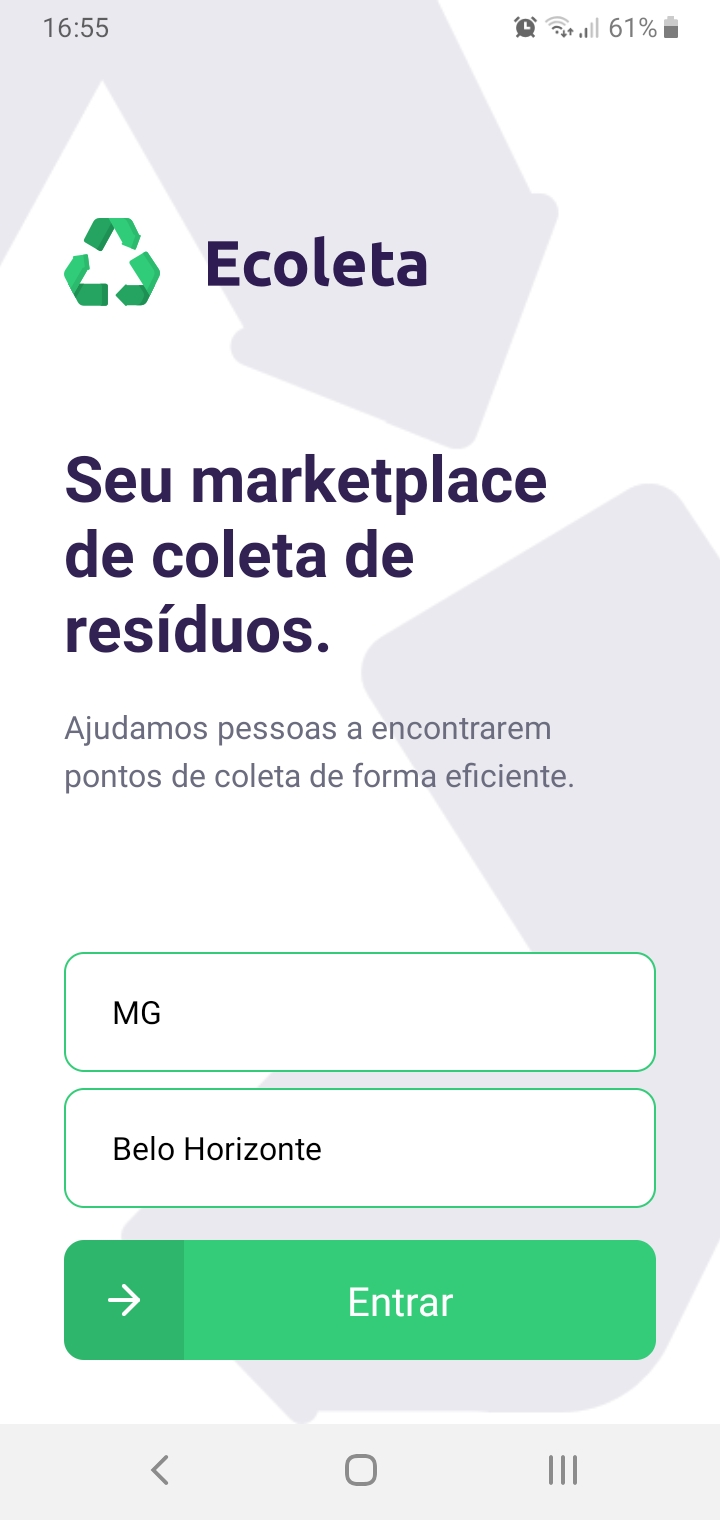
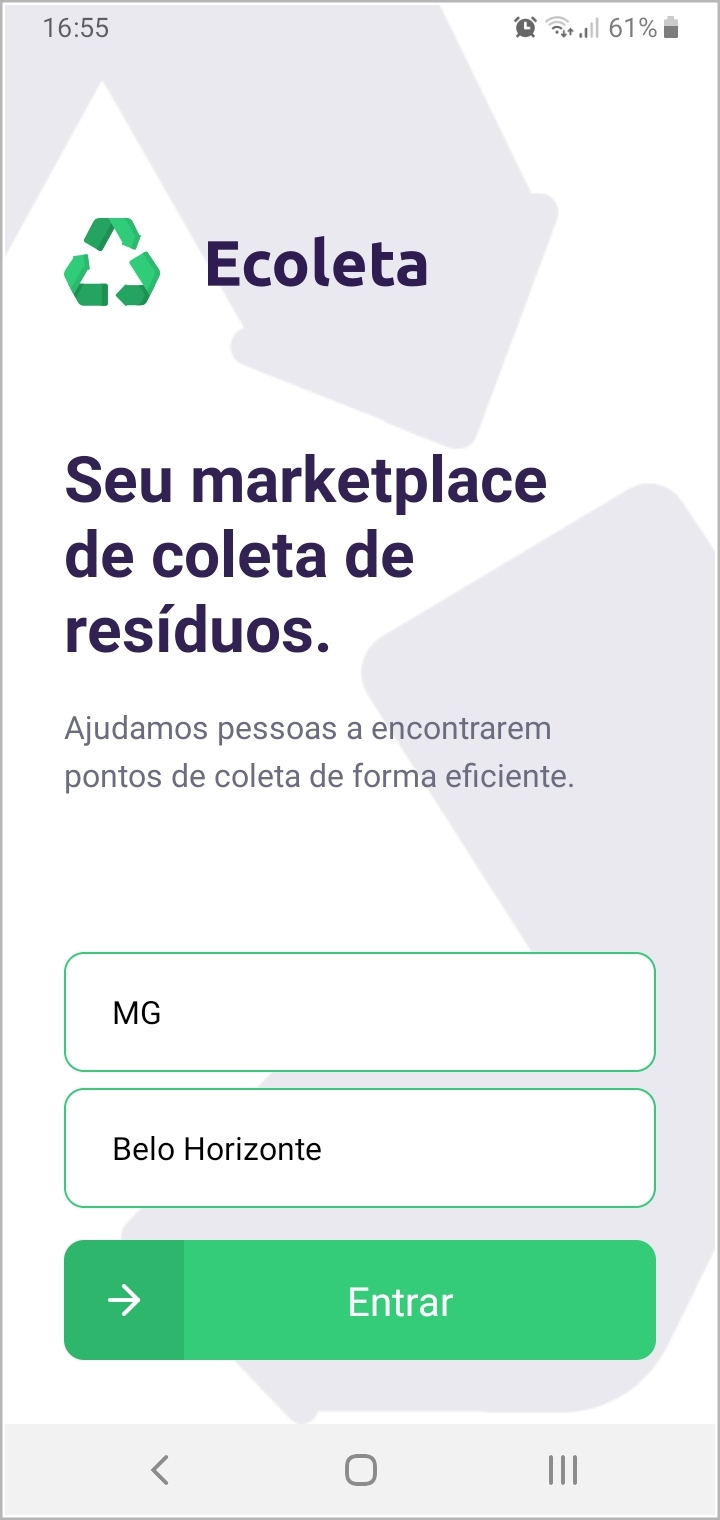
Bordas nas imagens

Changed region(s): [[0.0, 0.0, 1.0, 1.0], [0.0, 0.1546, 0.0306, 0.9586], [0.0, 0.0, 0.0306, 0.0309]]

diff --git a/README.md b/README.md
@@ -15,13 +15,13 @@ O <strong>Ecoleta</strong> é uma plataforma criada para gerenciar o processo de
 </div>
 
 <div align="center">
-  <img src="mobile/mobile_preview_1.jpg" alt="Ecoleta mobile" width="500px">
+  <img src="mobile/mobile_preview_1.jpg" alt="Ecoleta mobile" width="350px">
 </div>
 <div align="center">
-  <img src="mobile/mobile_preview_2.jpg" alt="Ecoleta mobile" width="500px">
+  <img src="mobile/mobile_preview_2.jpg" alt="Ecoleta mobile" width="350px">
 </div>
 <div align="center">
-  <img src="mobile/mobile_preview_3.jpg" alt="Ecoleta mobile" width="500px">
+  <img src="mobile/mobile_preview_3.jpg" alt="Ecoleta mobile" width="350px">
 </div>
 
 # :toolbox: Tecnologias
